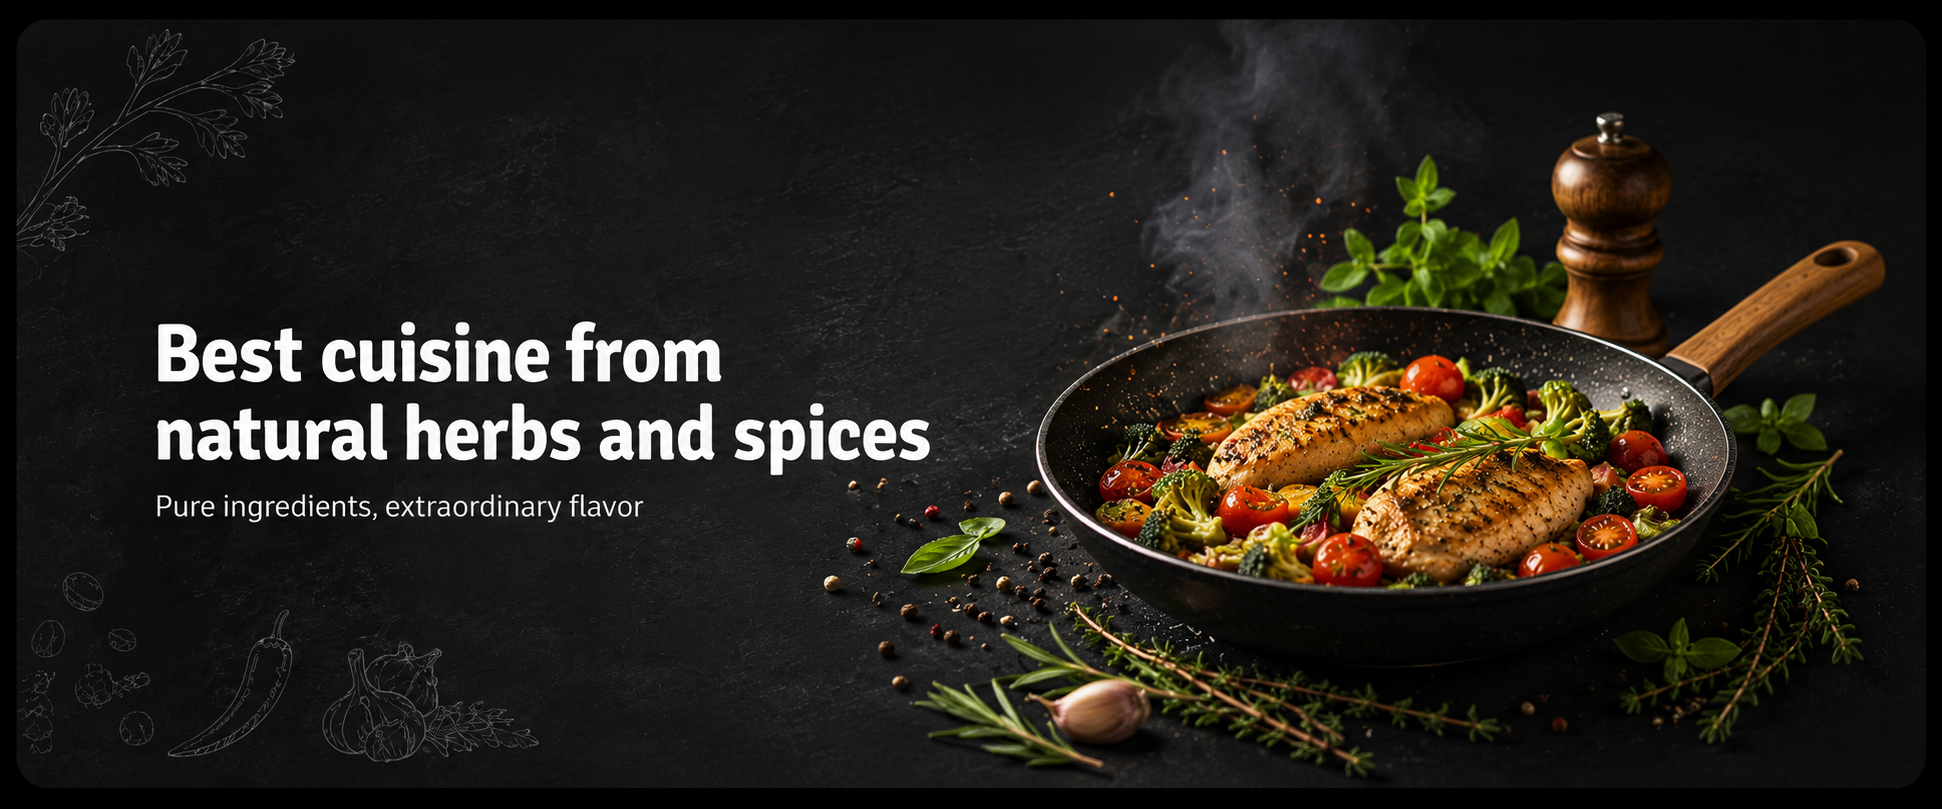
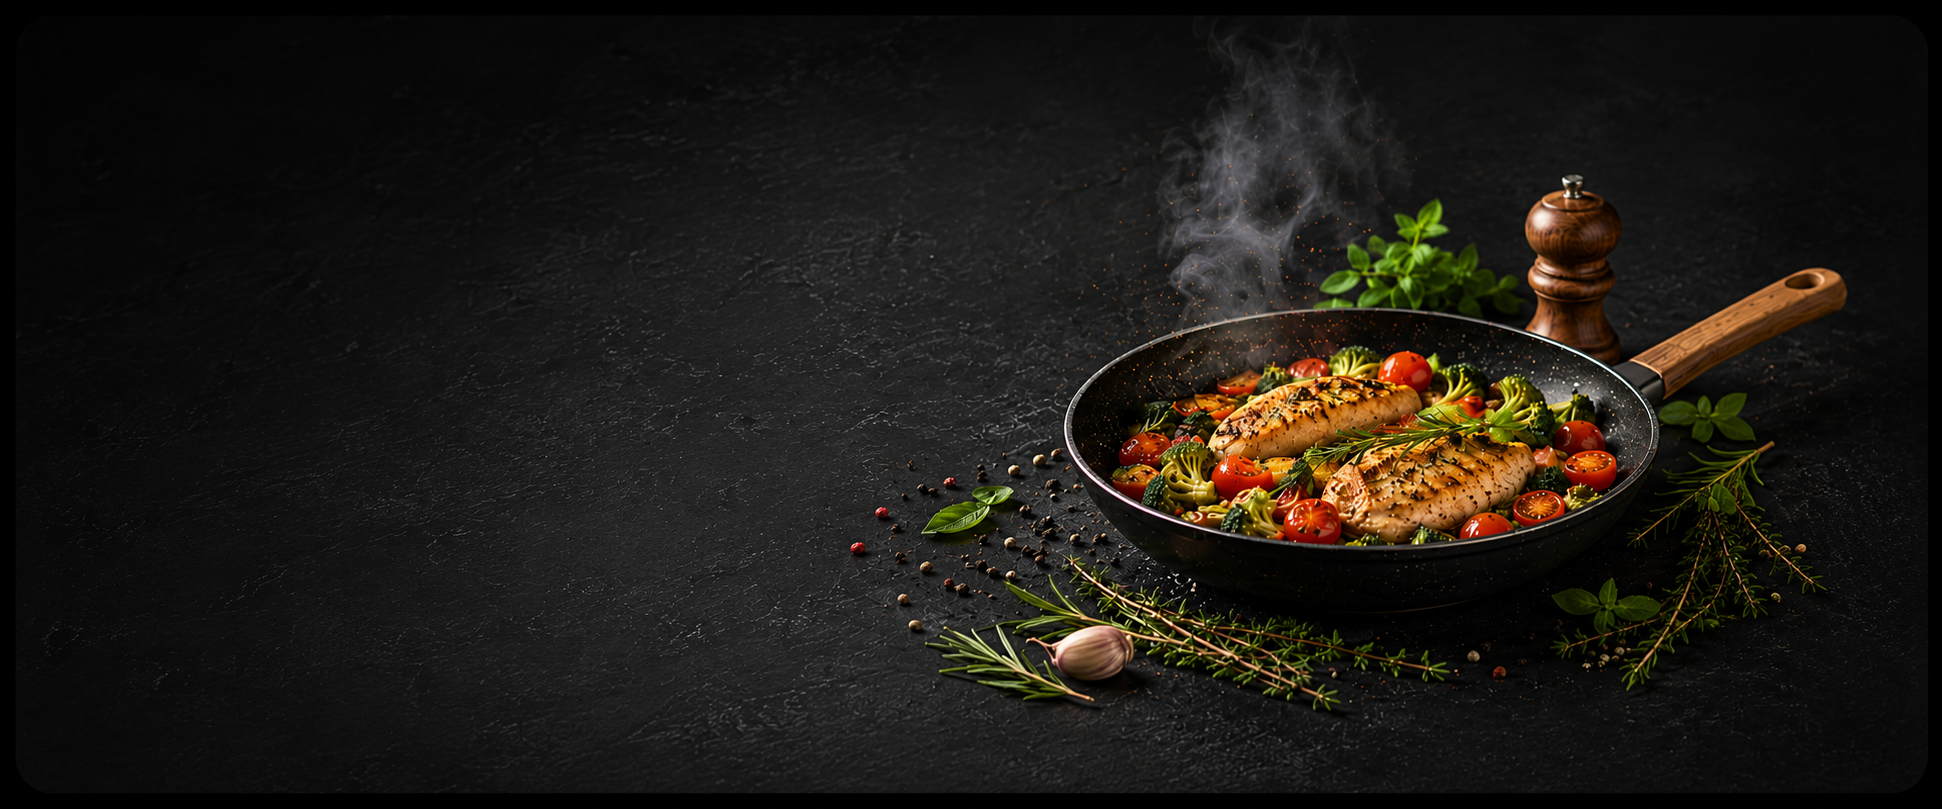
product page

diff --git a/src/pages/Products.tsx b/src/pages/Products.tsx
@@ -5,6 +5,7 @@ import "../styles/products.css";
 import pbannerImg from "../assets/images/pbanner.png";
 import pbanner3Img from "../assets/images/pbanner3.png";
 import pbanner4Img from "../assets/images/pbanner4.png";
+import pbanner5Img from "../assets/images/pbanner7.png";
 import {
   allProducts,
   categories,
@@ -125,19 +126,23 @@ export default function Products() {
               to="/contact"
               className="promo-duo-card promo-duo-orange"
               style={{ backgroundImage: `url(${pbanner3Img})` }}
-              aria-label="Fresh Fruit & Vegetable Basket — Get a Custom Quote"
-            />
+            >
+              <h3>Fresh Vegetable &amp; Fruit Basket</h3>
+              <p>Farm-fresh goodness in every bite</p>
+            </Link>
             <button
               className="promo-duo-card promo-duo-dark"
               style={{ backgroundImage: `url(${pbanner4Img})` }}
-              aria-label="Bold Flavours, Grown in Kenya — Explore Herbs & Spices"
               onClick={() => {
                 setActiveCategory("Herbs & Spices");
                 document
                   .getElementById("featured")
                   ?.scrollIntoView({ behavior: "smooth" });
               }}
-            />
+            >
+              <h3>Best Cuisine from Natural Herbs &amp; Spices</h3>
+              <p>Pure ingredients, extraordinary flavour</p>
+            </button>
           </div>
         </div>
       </section>
@@ -168,6 +173,30 @@ export default function Products() {
                 onView={setModalProduct}
               />
             ))}
+          </div>
+        </div>
+      </section>
+
+      {/* CTA */}
+      <section
+        className="cta-banner cta-banner-split"
+        style={{ backgroundImage: `url(${pbanner5Img})` }}
+      >
+        <div className="container-xl">
+          <div className="cta-split-content">
+            <h2>Need a Custom Order?</h2>
+            <p>
+              Contact our export team for tailored packaging, volume pricing and
+              supply schedule discussions.
+            </p>
+            <div className="cta-banner-actions">
+              <Link to="/contact" className="btn-gold">
+                Send an Inquiry
+              </Link>
+              <Link to="/contact#quote" className="btn-secondary">
+                Request a Quote
+              </Link>
+            </div>
           </div>
         </div>
       </section>
@@ -210,26 +239,10 @@ export default function Products() {
         </div>
       </section>
 
-      {/* CTA */}
-      <section className="cta-banner">
-        <div className="container-xl">
-          <h2>Need a Custom Order?</h2>
-          <p>
-            Contact our export team for tailored packaging, volume pricing and
-            supply schedule discussions.
-          </p>
-          <div className="cta-banner-actions">
-            <Link to="/contact" className="btn-gold">
-              Send an Inquiry
-            </Link>
-            <Link to="/contact#quote" className="btn-outline-white">
-              Request a Quote
-            </Link>
-          </div>
-        </div>
-      </section>
-
-      <ProductModal product={modalProduct} onClose={() => setModalProduct(null)} />
+      <ProductModal
+        product={modalProduct}
+        onClose={() => setModalProduct(null)}
+      />
     </main>
   );
 }

diff --git a/src/styles/products.css b/src/styles/products.css
@@ -9,6 +9,50 @@
   scroll-margin-top: 90px;
 }
 
+/* ── Custom Order CTA (image split) ── */
+
+.cta-banner.cta-banner-split {
+  background-color: var(--color-green-pale);
+  background-size: cover;
+  background-position: center 20%;
+  background-repeat: no-repeat;
+  text-align: left;
+  padding: 4rem 0;
+}
+
+.cta-banner.cta-banner-split::before {
+  display: none;
+}
+
+.cta-split-content {
+  max-width: 50%;
+  position: relative;
+}
+
+.cta-banner.cta-banner-split h2 {
+  color: var(--color-gray-dark);
+  text-align: left;
+  font-size: clamp(1.3rem, 3vw, 2.25rem);
+  font-weight: 800;
+}
+
+.cta-banner.cta-banner-split p {
+  color: var(--color-gray-mid);
+  text-align: left;
+  font-size: clamp(0.8rem, 1.6vw, 1rem);
+  font-weight: 500;
+}
+
+.cta-banner.cta-banner-split .cta-banner-actions {
+  justify-content: flex-start;
+}
+
+@media (max-width: 700px) {
+  .cta-split-content {
+    max-width: 100%;
+  }
+}
+
 .cat-btn {
   padding: 0.55rem 1.5rem;
   border-radius: 999px;
@@ -572,18 +616,20 @@
 
 .promo-duo-card h3 {
   font-family: var(--font-display);
-  font-size: 1.4rem;
+  font-size: clamp(1rem, 2.4vw, 1.4rem);
   font-weight: 800;
   color: #fff;
   margin-bottom: 0.5rem;
+  max-width: 50%;
+  line-height: 1.25;
 }
 
 .promo-duo-card p {
   font-family: var(--font-body);
-  font-size: 0.88rem;
+  font-size: clamp(0.72rem, 1.5vw, 0.88rem);
   color: rgba(255, 255, 255, 0.85);
   margin-bottom: 1rem;
-  max-width: 280px;
+  max-width: 50%;
 }
 
 .promo-duo-link {
@@ -605,7 +651,7 @@
 /* ── Deal of the month ── */
 
 .deal-of-month {
-  background: var(--color-green-pale);
+  background: var(--color-off-white);
 }
 
 .deal-grid {
@@ -885,9 +931,6 @@
   font-size: 0.9rem;
   margin-top: 2px;
   flex-shrink: 0;
-}
-
-.product-spec .spec-content {
 }
 
 .product-spec .spec-label {

diff --git a/src/styles/global/colors.css b/src/styles/global/colors.css
@@ -18,7 +18,7 @@
   --color-red-pale:   #ffebee;
 
   /* ── Gold / accent ── */
-  --color-gold:       #c9a84c;
+  --color-gold:       #c78820;
   --color-gold-light: #e8c96a;
   --color-gold-pale:  #fdf6e3;
 